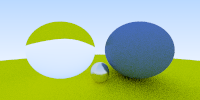
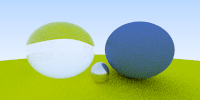
フレネル反射

diff --git a/src/material.rs b/src/material.rs
@@ -4,7 +4,7 @@ use crate::{
     hit_info::HitInfo,
     random_vec3_in_unit_sphere,
     ray::Ray,
-    utility::{reflect, refract},
+    utility::{reflect, refract, schlick},
 };
 
 // 散乱の情報
@@ -89,21 +89,24 @@ impl Material for Dielectric {
     fn scatter(&self, ray: &Ray, hit: &HitInfo) -> Option<ScatterInfo> {
         let reflected = reflect(ray.direction, hit.n);
         // タプルで束縛!
-        let (outward_normal, in_over_out) = {
+        let (outward_normal, in_over_out, cosine) = {
+            let dot = ray.direction.dot(hit.n);
             // 入射する場合
             if ray.direction.dot(hit.n) > 0.0 {
-                (-hit.n, self.ri)
+                (-hit.n, self.ri, self.ri * dot / ray.direction.length())
             }
             // 出射する場合
             else {
-                (hit.n, self.ri.recip())
+                (hit.n, self.ri.recip(), -dot / ray.direction.length())
             }
         };
 
         if let Some(refracted) = refract(-ray.direction, outward_normal, in_over_out) {
-            Some(ScatterInfo::new(Ray::new(hit.p, refracted), Vec3::ONE))
-        } else {
-            Some(ScatterInfo::new(Ray::new(hit.p, reflected), Vec3::ONE))
+            if rand::random::<f32>() > schlick(cosine, self.ri) {
+                return Some(ScatterInfo::new(Ray::new(hit.p, refracted), Vec3::ONE));
+            }
         }
+
+        Some(ScatterInfo::new(Ray::new(hit.p, reflected), Vec3::ONE))
     }
 }

diff --git a/src/utility.rs b/src/utility.rs
@@ -39,9 +39,15 @@ pub fn refract(vec3: Vec3, normal: Vec3, in_over_out: f32) -> Option<Vec3> {
     if d > 0.0 {
         Some(-in_over_out * (uv - normal * dt) - normal * d.sqrt())
     }
-    // 全反射の場合 
+    // 全反射の場合
     else {
         None
     }
 }
 
+// フレネル方程式の解を導出するためのSchlickの近似式
+// 大気中から媒質に入射する時用Ï
+pub fn schlick(cosine: f32, ri: f32) -> f32 {
+    let r0 = ((1.0 - ri) / (1.0 + ri)).powi(2);
+    r0 + (1.0 - r0) * (1.0 - cosine).powi(5)
+}
